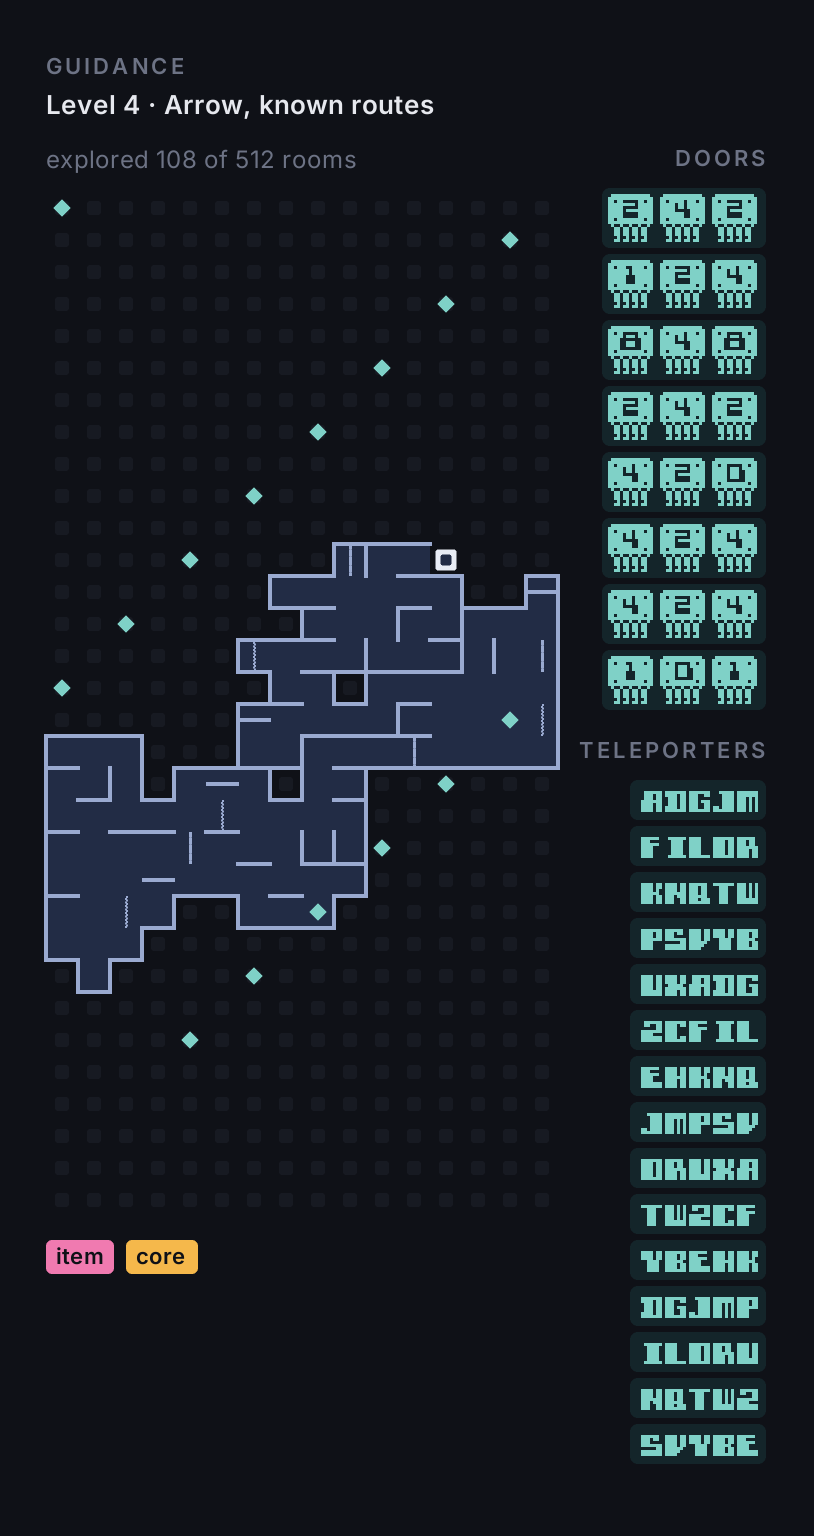
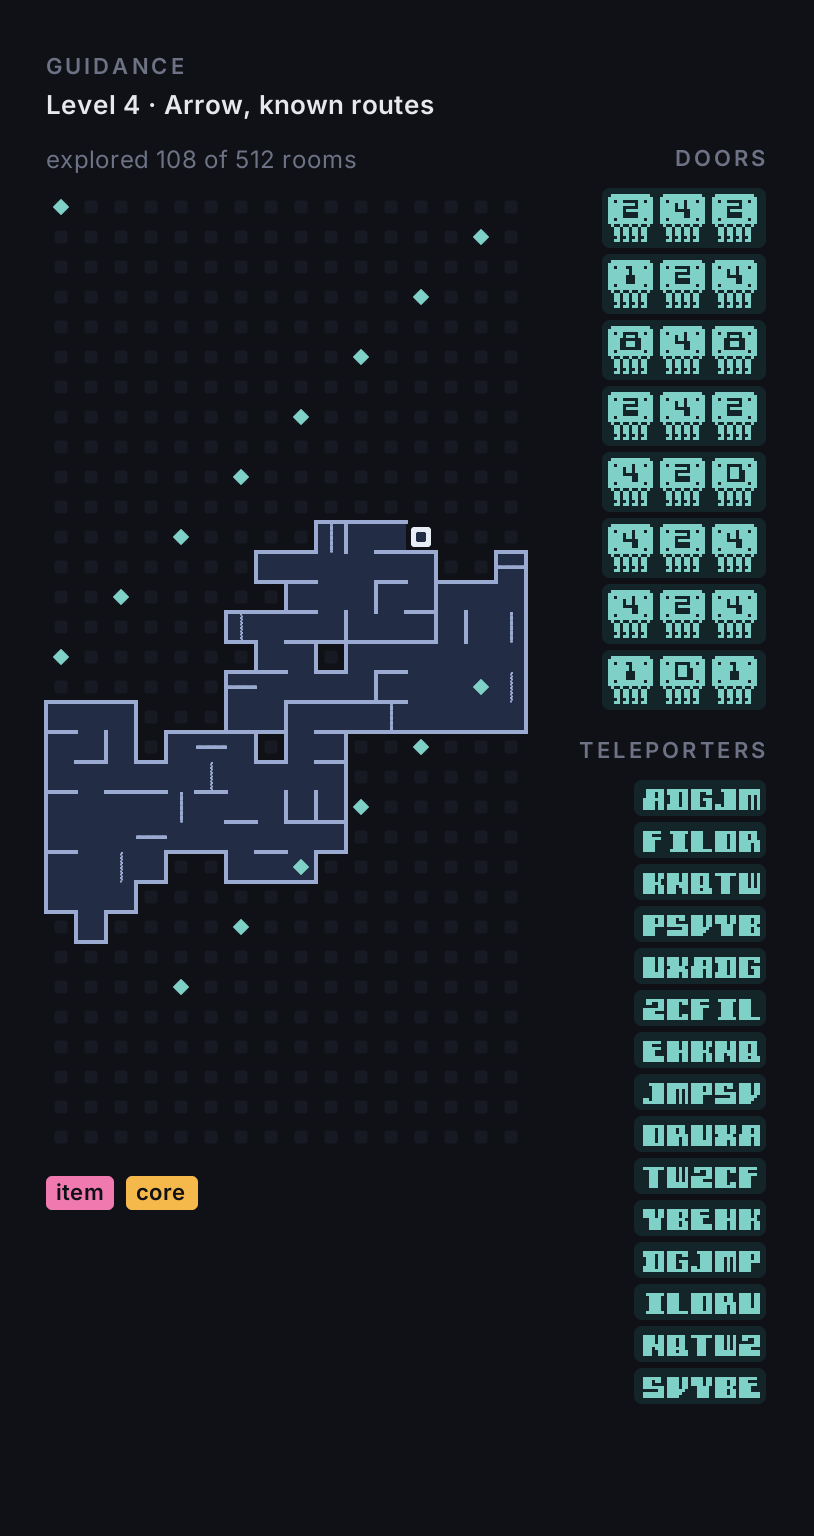
Say what the codes' column shows, and where the core's holes are now (#49)

diff --git a/README.md b/README.md
@@ -24,7 +24,7 @@ Starquake (Stephen Crow / Bubble Bus, 1985), played from your own copy of the ga
 - [ ] Tape prompt: find or drop `starquake.tap` or its `.zip`, a link to World of Spectrum, the tape kept in the user data directory (built; awaiting a check by hand)
 - [x] A notice while the game is paused, saying how to go on
 - [x] The guidance panel beside the game, the picker for the guidance level and training mode (Esc, or Select on a gamepad), End this game and Exit, the note of how much help a game had beside the game-over screens, and pausing with Start or the pause key.
-- [x] Guidance level 1: the codes of the teleporters whose booths you have entered, listed in the panel.
+- [x] Guidance level 1: the codes you have been shown, in a column down the panel's right in the game's own letters: every teleporter booth you have entered, and the three chips each security door asked for once its screen has shown them.
 - [x] The items found marked on the map from level 2, drawn with the game's own graphics at a whole number of screen pixels a game pixel, outlined, and a missing core piece in a room you have seen drawn as itself.
 - [x] Guidance level 2: a map of the rooms you have visited, with every edge shown open or closed and walls inside divided rooms.
 - [x] Guidance level 3: the missing core pieces marked on the map, in rooms visited or not.
@@ -40,7 +40,7 @@ cargo run --release -p zx-sidekick-starquake
 
 The game starts fullscreen, and F11 leaves it for a window as large as the screen allows: the picture is scaled by a whole number, so fullscreen is often a step larger than any window fits. The first time, the window asks for your copy of Starquake (`starquake.tap`, or the `.zip` it came in) and keeps it in your user data directory. A tape named on the command line is used as it is. The keys are the Spectrum's, so the title screen's own choices all work. On top of that the arrow keys with Left Control (or Alt, comma or full stop) to fire, and a gamepad (the d-pad or left stick to move, A for down and X to fire, as on an Xbox pad), are a joystick that works whichever control method you choose there: the machine presses the keys the game is listening for. Start or fire also starts a game from the title screen and goes past the intro text, so a controller alone gets you playing. Start, or the game's own pause key (Space, or the key you defined), pauses by freezing the emulation: the game never pauses itself, and the window says so over the picture; any key, a direction, fire or Start goes on. Right Control is Symbol Shift.
 
-Beside the picture is the guidance panel. Esc, or Select on a gamepad, opens the picker and holds the game while it is open: up and down choose a row, left and right change it, Enter or A keeps the changes, and Esc, B or Select cancel them. It sets the guidance level (0 to 5) and training mode, and asks before a change that would show on the game's score. At level 1 the panel lists the codes of the teleporters whose booths you have entered this game; at level 2 it adds a map of the rooms you have visited, with their openings, the room you are in and the teleporters you have seen; at level 2 it also marks each item you have found lying in a room, drawn as what the item does, a chip, the card that opens any door, the pad key or something a pyramid trades; at level 3 it marks the rooms holding a core piece still needed, visited or not, and shows the core's nine holes in a column beside the map, drawn with the game's own graphics from memory; at level 4 it draws two routes over the ways you have walked, to the nearest missing piece in pink and to the core in orange while you carry a piece it needs, each with an arrow in the picture's border marked "item" or "core" so the two are told apart without colour, a legend under the map, and the code to select when a teleporter is next, with Tab, or Y on a gamepad, switching the pink route between the three nearest missing pieces; at level 5 the same routes run through the whole map, dashed through rooms you have not visited, ending in the part of the room a piece is in once you have entered its room, assuming Blob can fly everywhere, doors and wall passages work, and lifts only ever go up; training mode is still to be built. End this game abandons the game in play the game's own way, by holding A S D F G, and Exit closes the program; both need a second press. Beside the game-over and high-score screens the panel says how much help the game had.
+Beside the picture is the guidance panel. Esc, or Select on a gamepad, opens the picker and holds the game while it is open: up and down choose a row, left and right change it, Enter or A keeps the changes, and Esc, B or Select cancel them. It sets the guidance level (0 to 5) and training mode, and asks before a change that would show on the game's score. At level 1 the panel lists the codes you have been shown this game, in a column at its right in the game's own letters: the teleporter booths you have entered, and the three chips each security door asked for once its screen showed them; at level 2 it adds a map of the rooms you have visited, with their openings, the room you are in and the teleporters you have seen; at level 2 it also marks each item you have found lying in a room, drawn as what the item does, a chip, the card that opens any door, the pad key or something a pyramid trades; at level 3 it marks the rooms holding a core piece still needed, visited or not, and shows the core's nine holes in a row above the map, drawn with the game's own graphics from memory; at level 4 it draws two routes over the ways you have walked, to the nearest missing piece in pink and to the core in orange while you carry a piece it needs, each with an arrow in the picture's border marked "item" or "core" so the two are told apart without colour, a legend of the two chips under the map, and the code to select when a teleporter is next, with Tab, or Y on a gamepad, switching the pink route between the three nearest missing pieces; at level 5 the same routes run through the whole map, dashed through rooms you have not visited, ending in the part of the room a piece is in once you have entered its room, assuming Blob can fly everywhere, doors and wall passages work, and lifts only ever go up; training mode is still to be built. End this game abandons the game in play the game's own way, by holding A S D F G, and Exit closes the program; both need a second press. Beside the game-over and high-score screens the panel says how much help the game had.
 
 `--headless FRAMES [DIR [LEVEL]]` runs without a window, the joystick wandering at random, and writes PNGs of the window, picture and panel at that guidance level, the tape's loading picture first.
 
